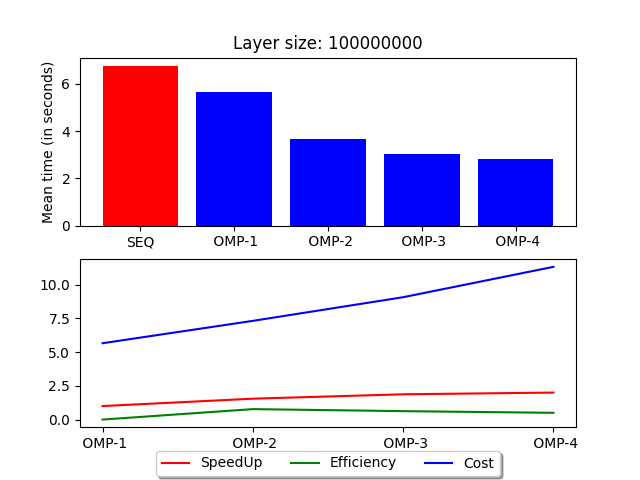
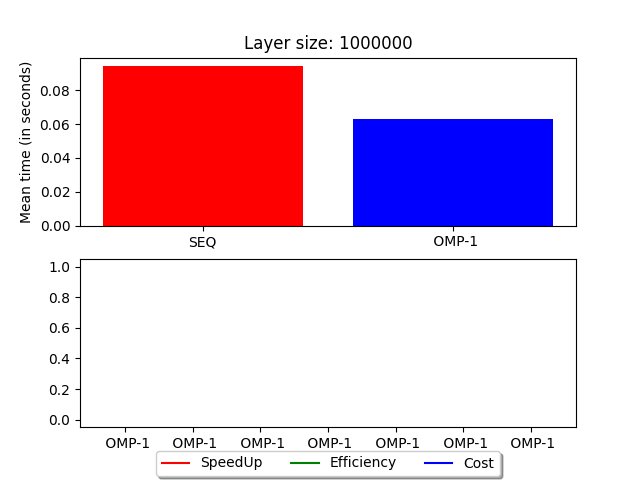
Trying to implement the relaxation phase without layer_copy ancilliary array
Still not fixed

diff --git a/Src/energy_storms_omp.c b/Src/energy_storms_omp.c
@@ -281,7 +281,6 @@ int main(int argc, char *argv[])
 
 	/* 3. Allocate memory for the layer and initialize to zero */
 	energy_t *layer = (energy_t *) malloc(sizeof(energy_t) * layer_size);
-	energy_t *layer_copy = (energy_t *) malloc(sizeof(energy_t) * layer_size);
 
 	if (layer == NULL)
 	{
@@ -290,14 +289,14 @@ int main(int argc, char *argv[])
 	}
 	double initial = cp_Wtime();
 
-	#pragma omp parallel num_threads(n_threads)
-	{	
-		#pragma omp for
+	// #pragma omp parallel num_threads(n_threads)
+	// {	
+		#pragma omp for simd
 		for (int kk = 0; kk < layer_size; kk++)
 		{
 			layer[kk] = 0.0f;
 		}
-	}
+	//}
 	
 
 	double final = cp_Wtime();
@@ -349,42 +348,70 @@ int main(int argc, char *argv[])
 					}
 				}
 			}
-		//total = O(p*(l/t))
+		
+
 		/* 4.2. Energy relaxation between storms */
-		/* 4.2.1. Copy values to the ancillary array */
-//make a lock to get all the ancillary cells of each thread
-
-		#ifdef NOOOO
-		int previousNeighbor = 0;
-		int LastNeighbor = 100;
-		/* 4.2.2. Update layer using the ancillary values.
-		 Skip updating the first and last positions */
-
-		#pragma omp paralell for private(previousNeighbor)
-		for (k = 1; k < layer_size - 1; k++)//TODO k not =1, depending on thread
-		//TODO nextPreviousNeighbor = layer[k-1] wouldn't work, because a thread might end before another starts
+		#ifndef AFTER
+		#pragma omp parallel num_threads(n_threads)
 		{
 
-			int nextPreviousNeighbor = layer[k];
+			fprintf(stderr, "Thread number is %d\n", omp_get_thread_num());
 
-			layer[k] = (previousNeighbor + layer[k] + layer[k + 1]) / 3;//layer[k+1] doesn't work for last element of layer in thread
-			previousNeighbor = nextPreviousNeighbor;
+			int PreviousFirstCellIndex = 1 + ((layer_size - 2)/n_threads)*omp_get_thread_num() - 1;
+			int PreviousLastCellIndex = 1 + ((layer_size - 2)/n_threads)*(omp_get_thread_num() + 1);
 
-			if (layer[k] > maximum[i])
+			energy_t *PreviousFirstCell = 	&layer[PreviousFirstCellIndex];
+			energy_t *PreviousLastCell  = 	&layer[PreviousLastCellIndex];
+
+			if(n_threads == 1) 
 			{
-				maximum[i] = layer[k];
-				positions[i] = k;
+				assert(*PreviousLastCell == layer[layer_size - 1]);
+				assert(PreviousLastCellIndex == layer_size - 1);
+			}
+
+			/* 4.2.2. Update layer using the ancillary values.
+			Skip updating the first and last positions */
+
+			energy_t nextPreviousNeighbor = *PreviousFirstCell;
+
+			#pragma omp barrier
+
+			boolean printFirst = FALSE;
+			boolean reached = FALSE;
+
+			#pragma omp for// private(k)
+			for (k = 1; k < layer_size - 1; k++)//TODO k not =1, depending on thread
+			//TODO nextPreviousNeighbor = layer[k-1] wouldn't work, because a thread might end before another starts
+			{
+				assert(!reached);
+				assert(nextPreviousNeighbor == layer[k-1]);
+				if(!printFirst)
+				{
+					fprintf(stderr, "First k: %d Thread: %d\n", k, omp_get_thread_num());
+					assert(&layer[k - 1] == PreviousFirstCell);
+					printFirst = TRUE;
+				}
+
+				if(&layer[k + 1] == PreviousLastCell) 
+				{
+					fprintf(stderr, "At %d. Thread: %d\n", k, omp_get_thread_num());
+					assert(k + 1 == PreviousLastCellIndex);
+
+					layer[k] = (nextPreviousNeighbor + layer[k] + *PreviousLastCell)/3;
+					reached = TRUE;
+				}
+				else
+				{
+					layer[k] = (nextPreviousNeighbor + layer[k] + layer[k + 1])/3;//layer[k+1] doesn't work for last element of layer in thread
+				}	
+
+				nextPreviousNeighbor = layer[k];
 			}
 		}
-		#endif
-		//layer[k] = (previousNeighbor + layer[k] + layer[last) / 3;
-		/* 4.3. Locate the maximum value in the layer, and its position
-		 /*
-		 float *layer_copy = (float *) malloc(sizeof(float) * layer_size);
-		 for (k = 0; k < layer_size; k++)
-		 layer_copy[k] = 0.0f;
+		
+		#else //BEFORE
+		energy_t *layer_copy = (energy_t *) malloc(sizeof(energy_t) * layer_size);
 
-		 /* 4.2. Energy relaxation between storms */
 		/* 4.2.1. Copy values to the ancillary array */
 		for (k = 0; k < layer_size; k++)
 			layer_copy[k] = layer[k];
@@ -395,6 +422,9 @@ int main(int argc, char *argv[])
 			layer[k] = (layer_copy[k - 1] + layer_copy[k] + layer_copy[k + 1])
 					/ 3;
 
+		free(layer_copy);
+		#endif
+		
 		/* 4.3. Locate the maximum value in the layer, and its position */
 		for (k = 1; k < layer_size - 1; k++)
 		{
@@ -439,7 +469,6 @@ int main(int argc, char *argv[])
 		free(storms[i].posval);
 	
 	free(layer);
-	free(layer_copy);
 
 	/* 9. Program ended successfully */
 	return 0;

diff --git a/Src/TestsScript.py b/Src/TestsScript.py
@@ -16,7 +16,7 @@ PLOTS_FOLDER = "plots/"
 ENERGY_STORMS_OMP_EXEC = "./energy_storms_omp"
 ENERGY_STORMS_SEQ_EXEC = "./energy_storms_seq"
 
-MAX_THREADS = os.cpu_count()# + 2
+MAX_THREADS = 1#os.cpu_count()# + 2
 
 class ProgramResultsSample:
     def __init__(self, program, layer_size, n_threads, test_files, time, results):
@@ -185,7 +185,7 @@ def plot_results_nthreads_time(plot_name, layer_size, SEQsamples = [], OMPsample
     plt.savefig(PLOTS_FOLDER + plot_name)
     plt.close()
 
-def run_tests(layer_size, test_files, n_runs = 2):
+def run_tests(layer_size, test_files, n_runs = 2, test_original_program = True):
     def _checkResults(newSample, lastSample):
         if(lastSample != None and not newSample.compareResults(lastSample)):
             print("\033[0;31mOutput mismatch! Differences:\033[0m")
@@ -199,23 +199,29 @@ def run_tests(layer_size, test_files, n_runs = 2):
     SEQsamples = []
     OMPsamples = []
 
-    print("Testing original program")
-    for r in range(n_runs):
-        print( r + 1, "\r", end = '')
-        newSample =  start_energy_storms_program(ENERGY_STORMS_SEQ_EXEC, layer_size, test_files)
-        lastSample = None if SEQsamples == [] else SEQsamples[len(SEQsamples) - 1]
-        _checkResults(newSample, lastSample)
-        SEQsamples.append(newSample)
+    newSample = None
+    lastSample = None
 
-    print("Executing OMP program")
+    if(test_original_program):
+        print("Testing original program")
+        for r in range(n_runs):
+            print( r + 1, "\r", end = '')
+            newSample =  start_energy_storms_program(ENERGY_STORMS_SEQ_EXEC, layer_size, test_files)
+            _checkResults(newSample, lastSample)
+            SEQsamples.append(newSample)
+            lastSample = newSample
+
+        
+
+    print("Testing OMP program")
     for t in range (1, MAX_THREADS + 1):
         print(t, "thread(s)")
         for r in range(n_runs):
             print( r + 1, "\r", end = '')
             newSample =  start_energy_storms_program(ENERGY_STORMS_OMP_EXEC, layer_size, test_files, n_threads=t)
-            lastSample = SEQsamples[len(SEQsamples) - 1] if OMPsamples == [] else OMPsamples[len(OMPsamples) - 1]
             _checkResults(newSample, lastSample)
             OMPsamples.append(newSample)
+            lastSample = newSample
             
     return SEQsamples, OMPsamples
 
@@ -223,7 +229,7 @@ def run_tests(layer_size, test_files, n_runs = 2):
 
 all_test_files = get_test_files()
 
-layer_size = 100000000
+layer_size = 1000000
 
 # samples = run_tests(layer_size, all_test_files, n_runs = 5)
 

diff --git a/Src/energy_storms.c b/Src/energy_storms.c
@@ -30,7 +30,7 @@ double cp_Wtime(){
 }
 
 
-#define THRESHOLD    0.001f
+#define THRESHOLD    50.0f
 
 /* Structure used to store data for one storm of particles */
 typedef struct {
